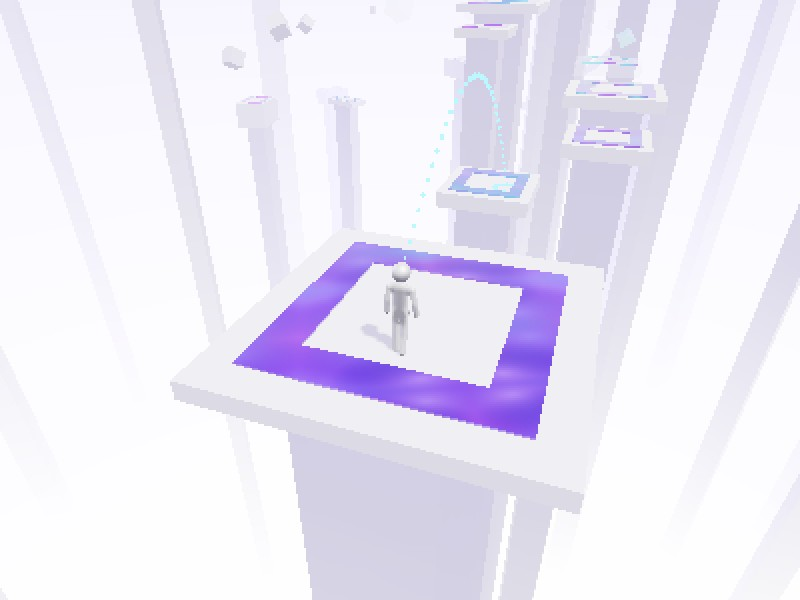
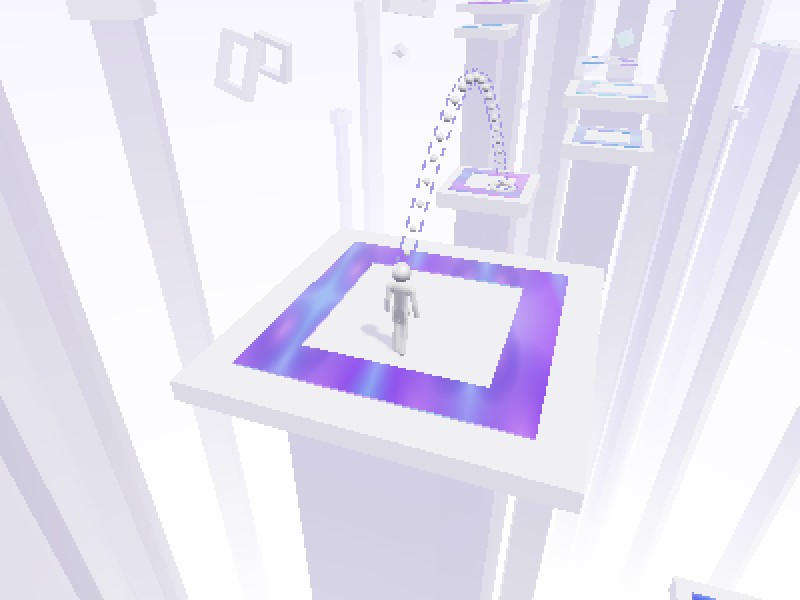
Implemented the following changes:
* There's an initial demo animation where, without user intervention, with a single user. The player will move themselves across the screen. At the moment the selection logic that the user uses doesn't have a traced outline of the character. Maybe it's using a different logic path? Add the trace and see if you can consolidate.
* When using 1/2 there's a trace consisting of solid blue/purple spheres that appear to have no lighting and a ring of the same color. Please cahnge them to be the same color as the player and to have lightning. And use the outline shader in such a way that the lines are dashed... This may be hard. I'll love you if you can pull it off.
* Right now, when you have copeis and the user uses 1/2 all clonse go to one position. Let's add a shift option when shift is pressed that works as folows One player central enough to the swarm is selected as the leader. The angle and displacement is configured  based on tha tusers. All other characters just copy the angle and displacement. The result being that all characers don't just fold onto one spot.

Co-authored by Cluade

diff --git a/public/games/aero/index.html b/public/games/aero/index.html
@@ -533,26 +533,51 @@ function aimTracker() {
   };
 }
 const aimRay = (cam, p) => { const r = new THREE.Raycaster(); r.setFromCamera(new THREE.Vector2(p.x / frame.clientWidth * 2 - 1, 1 - p.y / frame.clientHeight * 2), cam); return r.ray; };
-const AIM_OK = new THREE.Color(0x7ff0ff), AIM_NO = new THREE.Color(0xff6b9a), AIM_DOTS = 34;
+const AIM_LINE = new THREE.Color(0x5d55c9), AIM_LINE_NO = new THREE.Color(0xe8437a), AIM_DOTS = 22, AIM_R = .12, AIM_W = .06;
+function dashLine() {
+  return new THREE.ShaderMaterial({ side: THREE.BackSide, transparent: true, uniforms: { col: { value: AIM_LINE.clone() }, len: { value: 1 }, t: { value: 0 } },
+    vertexShader: 'varying float vU; void main() { vU = uv.x; gl_Position = projectionMatrix * modelViewMatrix * vec4(position, 1.); }',
+    fragmentShader: 'uniform vec3 col; uniform float len, t; varying float vU; void main() { if (fract(vU * len / .42 - t) > .56) discard; gl_FragColor = linearToOutputTexel(vec4(col, 1.)); }' });
+}
+const AIM_DEPTH = new THREE.MeshBasicMaterial({ colorWrite: false, transparent: true });
 function aimGuide() {
   const g = new THREE.Group(); g.visible = false;
-  const dm = new THREE.MeshBasicMaterial({ color: AIM_OK, toneMapped: false, transparent: true, opacity: .95, depthWrite: false });
-  const dots = new THREE.InstancedMesh(new THREE.SphereGeometry(.07, 8, 6), dm, AIM_DOTS); dots.frustumCulled = false; dots.renderOrder = 6; g.add(dots);
-  const mm = new THREE.MeshBasicMaterial({ color: AIM_OK, toneMapped: false, transparent: true, opacity: .95, side: THREE.DoubleSide, depthWrite: false });
-  const mark = new THREE.Mesh(new THREE.RingGeometry(.26, .4, 28), mm); mark.rotation.x = -Math.PI / 2; mark.renderOrder = 6; g.add(mark);
+  const bead = silver(false); bead.transparent = true;
+  const dots = new THREE.InstancedMesh(new THREE.SphereGeometry(AIM_R * .92, 12, 8), bead, AIM_DOTS);
+  dots.frustumCulled = false; dots.renderOrder = 20; g.add(dots);
+  const pathDepth = new THREE.Mesh(new THREE.BufferGeometry(), AIM_DEPTH), pathLine = new THREE.Mesh(new THREE.BufferGeometry(), dashLine());
+  pathDepth.renderOrder = 21; pathLine.renderOrder = 22; pathDepth.frustumCulled = pathLine.frustumCulled = false; g.add(pathDepth, pathLine);
+  const ringR = .34, ringT = .06;
+  const ring = new THREE.Mesh(new THREE.TorusGeometry(ringR, ringT, 10, 40), silver(false)); ring.material.transparent = true; ring.renderOrder = 20;
+  const ringDepth = new THREE.Mesh(ring.geometry, AIM_DEPTH); ringDepth.renderOrder = 21;
+  const ringLine = new THREE.Mesh(new THREE.TorusGeometry(ringR, ringT + AIM_W, 10, 40), dashLine()); ringLine.renderOrder = 22;
+  ringLine.material.uniforms.len.value = Math.PI * 2 * ringR;
+  const mark = new THREE.Group(); mark.add(ring, ringDepth, ringLine); mark.rotation.x = -Math.PI / 2; g.add(mark);
   const M = new THREE.Matrix4(), P = new THREE.Vector3(), Q = new THREE.Quaternion(), S = new THREE.Vector3();
+  const OK_TINT = new THREE.Color(0xe6e6ec), NO_TINT = new THREE.Color(0xffb8cc);
   return { g,
     show(path, end, ok, t) {
-      g.visible = true; dm.color.copy(ok ? AIM_OK : AIM_NO); mm.color.copy(dm.color);
+      g.visible = true;
+      const line = ok ? AIM_LINE : AIM_LINE_NO, tint = ok ? OK_TINT : NO_TINT;
+      bead.color.copy(tint); ring.material.color.copy(tint);
+      [pathLine, ringLine].forEach(m => { m.material.uniforms.col.value.copy(line); m.material.uniforms.t.value = t * 1.6; });
       const L = [0]; for (let i = 1; i < path.length; i++) L.push(L[i - 1] + path[i].distanceTo(path[i - 1]));
-      const total = L[L.length - 1] || 1, shift = (t * .9) % 1; let j = 1;
+      const total = L[L.length - 1] || 0, shift = (t * .9) % 1; let j = 1;
       for (let i = 0; i < AIM_DOTS; i++) {
         const s = (i + shift) / AIM_DOTS * total; j = 1; while (j < path.length - 1 && L[j] < s) j++;
         const k = (s - L[j - 1]) / ((L[j] - L[j - 1]) || 1); P.lerpVectors(path[j - 1], path[j], Math.min(1, Math.max(0, k)));
-        S.setScalar(.55 + .45 * (1 - Math.abs(s / total - .5) * 2)); M.compose(P, Q, S); dots.setMatrixAt(i, M);
+        S.setScalar(.6 + .4 * (1 - Math.abs(s / (total || 1) - .5) * 2)); M.compose(P, Q, S); dots.setMatrixAt(i, M);
       }
       dots.instanceMatrix.needsUpdate = true;
-      mark.position.set(end.x, end.y + .03, end.z); mark.scale.setScalar(1 + Math.sin(t * 7) * .12);
+      pathDepth.geometry.dispose(); pathLine.geometry.dispose();
+      const pts = path.filter((p, i) => i === 0 || p.distanceToSquared(path[i - 1]) > 1e-4);
+      if (pts.length > 1 && total > .05) {
+        const curve = new THREE.CatmullRomCurve3(pts), seg = Math.min(96, Math.max(12, Math.round(total * 5)));
+        pathDepth.geometry = new THREE.TubeGeometry(curve, seg, AIM_R, 8, false);
+        pathLine.geometry = new THREE.TubeGeometry(curve, seg, AIM_R + AIM_W, 8, false);
+        pathLine.material.uniforms.len.value = total;
+      } else { pathDepth.geometry = new THREE.BufferGeometry(); pathLine.geometry = new THREE.BufferGeometry(); }
+      mark.position.set(end.x, end.y + ringT + .01, end.z); mark.rotation.z = t * .6; mark.scale.setScalar(1 + Math.sin(t * 7) * .08);
     },
     hide() { g.visible = false; } };
 }
@@ -644,7 +669,7 @@ function headTravel(R, o) {
     }
   };
 }
-function walker(R, clamp, cam) {
+function walker(R, clamp, cam, group) {
   const vel = new THREE.Vector3(); let facing = R.root.rotation.y, base = null, h = 0, vy = 0, held = false, prev1 = false, prev2 = false, aiming = null;
   const track = aimTracker();
   const pick = p => {
@@ -658,20 +683,29 @@ function walker(R, clamp, cam) {
     land: at => { R.root.position.set(at.x, base, at.z); },
     respawn: () => new THREE.Vector3(R.root.position.x, base, R.root.position.z),
   });
+  let formation = false;
+  const leader = () => { if (!group || !formation) return null; const L = group(); return L && L !== R && L.walk ? L : null; };
+  const resolve = raw => {
+    const L = leader(); if (!L) return { dest: raw, f: null };
+    if (!raw) return { dest: null, f: L.walk.facing() };
+    const q = R.root.position.clone().add(raw.clone().sub(L.root.position)); clamp(q); q.y = base; return { dest: q, f: null };
+  };
   const step = (dt, t) => {
     if (base === null) base = R.root.position.y;
-    if (!aiming && !travel.active()) { if (KEYS.roll && !prev1) aiming = 'roll'; else if (KEYS.throw && !prev2) aiming = 'throw'; if (aiming) track.reset(); }
+    if (!aiming && !travel.active()) { if (KEYS.roll && !prev1) aiming = 'roll'; else if (KEYS.throw && !prev2) aiming = 'throw'; if (aiming) { track.reset(); formation = false; } }
     prev1 = !!KEYS.roll; prev2 = !!KEYS.throw;
-    if (aiming) track.tick();
+    if (aiming) { track.tick(); if (KEYS.run) formation = true; }
     if (aiming && h === 0 && (AIM.up || (!KEYS[aiming] && !AIM.down))) {
-      const k = aiming, dest = AIM.up ? pick(AIM.up) : track.mouse ? pick(AIM) : null; aiming = null; travel.unaim();
+      const k = aiming, { dest, f } = resolve(AIM.up ? pick(AIM.up) : track.mouse ? pick(AIM) : null); aiming = null; travel.unaim();
+      if (f !== null) facing = f;
       if (dest) { facing = Math.atan2(dest.x - R.root.position.x, dest.z - R.root.position.z); R.root.rotation.y = facing; }
       travel.start(k, facing, dest);
     }
     if (travel.active()) { travel.update(dt); vel.set(0, 0, 0); return; }
     const ix = (KEYS.r ? 1 : 0) - (KEYS.l ? 1 : 0), iz = (KEYS.b ? 1 : 0) - (KEYS.f ? 1 : 0), sp = KEYS.run ? 6.2 : 3.4;
     const w = new THREE.Vector3(ix, 0, iz); if (w.lengthSq()) { w.normalize(); facing = Math.atan2(w.x, w.z); }
-    const aimAt = aiming && track.mouse ? pick(AIM) : null;
+    const aimed = aiming ? resolve(track.mouse ? pick(AIM) : null) : { dest: null, f: null }, aimAt = aimed.dest;
+    if (aimed.f !== null) facing = aimed.f;
     if (aimAt && !w.lengthSq()) facing = Math.atan2(aimAt.x - R.root.position.x, aimAt.z - R.root.position.z);
     vel.x += (w.x * sp - vel.x) * Math.min(1, dt * 10); vel.z += (w.z * sp - vel.z) * Math.min(1, dt * 10);
     const p = R.root.position; p.x += vel.x * dt; p.z += vel.z * dt; clamp(p);
@@ -686,6 +720,7 @@ function walker(R, clamp, cam) {
   step.travelling = () => travel.active();
   step.focus = () => travel.active() ? R.head.getWorldPosition(new THREE.Vector3()).add(new THREE.Vector3(0, 1.3 - R.headY, 0)) : R.root.position.clone().add(new THREE.Vector3(0, 1.3 - h, 0));
   step.cancel = () => { aiming = null; travel.unaim(); };
+  step.facing = () => facing;
   return step;
 }
 
@@ -738,10 +773,16 @@ function buildCopy() {
   const mq = $('#marquee'), ctx = $('#ctx'), ov = $('#copyOv'), login = $('#begin');
   const A = -1.6, B = 1.9, LOOP = 8.6;
   let demoT0 = 0;
+  const swarmLead = () => {
+    if (crew.length < 2) return null;
+    const c = crew.reduce((a, r) => a.add(r.root.position), V(0, 0, 0)).multiplyScalar(1 / crew.length);
+    let best = null, bd = Infinity; for (const r of crew) { const d = r.root.position.distanceToSquared(c); if (d < bd) { bd = d; best = r; } }
+    return best;
+  };
   const syncLogin = () => { login.style.display = crew.length ? 'none' : ''; };
   function spawn() {
     if (crew.length) return;
-    const r = makeRunner(); r.root.position.set(A, 0, 0); r.root.rotation.y = .2; r.walk = walker(r, clampP, cam); r.flick = now + .5;
+    const r = makeRunner(); r.root.position.set(A, 0, 0); r.root.rotation.y = .2; r.walk = walker(r, clampP, cam, swarmLead); r.flick = now + .5;
     scene.add(r.root); crew.push(r); lead = r; mode = 'demo'; demoT0 = now; S = null; syncLogin(); chime(660);
   }
   login.onclick = () => { if (active) spawn(); };
@@ -754,7 +795,7 @@ function buildCopy() {
 
   const hand = new THREE.Vector3(); let S = null, dragging = false;
   function demo(dt, t) {
-    const R = lead, u = (t - demoT0) % LOOP, b0 = box(A), dx = box(B).x - b0.x;
+    const R = lead, u = (t - demoT0) % LOOP, b0 = box(A);
     R.root.position.set(u >= 4.7 ? B : A, 0, 0); R.root.rotation.y = .2;
     animateRunner(R, dt, 0, true, t);
     let arm = null, crouch = 0;
@@ -766,19 +807,31 @@ function buildCopy() {
     R.root.updateMatrixWorld(true);
     const hp = toFrame(R.handL.getWorldPosition(hand), cam);
     if (u < .5) S = null;
-    let on = false, x0, y0, x1, y1, ox = 0;
-    if (u >= 1.3 && u < 2.8) { if (!dragging || !S) S = { x: Math.min(hp.x, b0.x), y: Math.min(hp.y, b0.y) }; dragging = true; const k = ease((u - 1.3) / 1.5) ** 2;
-      on = true; x0 = S.x; y0 = S.y; x1 = hp.x + (b0.x + b0.w - hp.x) * k; y1 = hp.y + (b0.y + b0.h - hp.y) * k; }
-    else { dragging = false; if (u >= 2.8 && u < 5.1) { on = true; if (!S) S = { x: b0.x, y: b0.y }; x0 = S.x; y0 = S.y; x1 = b0.x + b0.w; y1 = b0.y + b0.h; } }
-    let vis = true;
+    if (u >= 1.3 && u < 2.8) {
+      if (!dragging || !S) S = { x: Math.min(hp.x, b0.x), y: Math.min(hp.y, b0.y) }; dragging = true; const k = ease((u - 1.3) / 1.5) ** 2;
+      rect(S.x, S.y, hp.x + (b0.x + b0.w - hp.x) * k, hp.y + (b0.y + b0.h - hp.y) * k); demoMargin = null;
+    } else if (u >= 2.8 && u < 5.1) {
+      if (dragging || !demoMargin) {
+        const r = { x0: S ? S.x : b0.x, y0: S ? S.y : b0.y, x1: b0.x + b0.w, y1: b0.y + b0.h }, b = bounds([R]), k = b.y1 - b.y0;
+        demoMargin = { l: (b.x0 - r.x0) / k, t: (b.y0 - r.y0) / k, r: (r.x1 - b.x1) / k, b: (r.y1 - b.y1) / k };
+      }
+      dragging = false;
+    } else { dragging = false; demoMargin = null; }
+    let vis = true, carried = false;
     if (u >= 3.2 && u < 3.6) vis = Math.floor(u * 16) % 2 === 0;
-    else if (u >= 3.6 && u < 4.7) { vis = false; ox = dx * ease((u - 3.6) / 1.1); }
-    else if (u >= 4.7 && u < 5.1) { ox = dx; vis = u > 4.95 || Math.floor(u * 20) % 2 === 0; }
+    else if (u >= 3.6 && u < 4.7) { vis = false; carried = true; }
+    else if (u >= 4.7 && u < 5.1) vis = u > 4.95 || Math.floor(u * 20) % 2 === 0;
     R.root.visible = vis && !(R.flick && t < R.flick && Math.floor(t * 20) % 2);
-    if (on) rect(x0 + ox, y0, x1 + ox, y1); else hideRect();
+    const g = demoGhostFor(); g.root.visible = carried;
+    if (carried) {
+      g.src = R; poseGhost(g, A + (B - A) * ease((u - 3.6) / 1.1), 0);
+      const pulse = .8 + Math.sin(t * 6) * .2; GHOST.lineSkin.color.setRGB(.9 * pulse, .92 * pulse, pulse); GHOST.line.color.copy(GHOST.lineSkin.color);
+    }
+    if (demoMargin) { const a = around(carried ? [g] : [R], demoMargin); if (a) rect(a.x0, a.y0, a.x1, a.y1); }
+    else if (!(u >= 1.3 && u < 2.8)) hideRect();
   }
   function resetPose(r) { r.hips.position.y = .98; r.spine.rotation.x = 0; r.shL.rotation.z = -.1; r.shR.rotation.z = .1; r.root.visible = true; }
-  function toPlay() { if (mode === 'play') return; mode = 'play'; if (lead) resetPose(lead); hideRect(); }
+  function toPlay() { if (mode === 'play') return; mode = 'play'; if (lead) resetPose(lead); if (demoGhost) demoGhost.root.visible = false; demoMargin = null; hideRect(); }
 
   const ray = new THREE.Raycaster(), floorPlane = new THREE.Plane(V(0, 1, 0), 0);
   const px = e => { const r = frame.getBoundingClientRect(); return { x: (e.clientX - r.left) * frame.clientWidth / r.width, y: (e.clientY - r.top) * frame.clientHeight / r.height }; };
@@ -792,8 +845,8 @@ function buildCopy() {
         const f = toFrame(V(p.x + dx, p.y + y, p.z + dz), cam); x0 = Math.min(x0, f.x); y0 = Math.min(y0, f.y); x1 = Math.max(x1, f.x); y1 = Math.max(y1, f.y); } }
     return x0 < Infinity ? { x0, y0, x1, y1 } : null;
   };
-  const around = rs => { const b = bounds(rs); if (!b || !margin) return null; const k = b.y1 - b.y0;
-    return { x0: b.x0 - margin.l * k, y0: b.y0 - margin.t * k, x1: b.x1 + margin.r * k, y1: b.y1 + margin.b * k }; };
+  const around = (rs, m = margin) => { const b = bounds(rs); if (!b || !m) return null; const k = b.y1 - b.y0;
+    return { x0: b.x0 - m.l * k, y0: b.y0 - m.t * k, x1: b.x1 + m.r * k, y1: b.y1 + m.b * k }; };
   let ghosts = [];
   function dropGhosts() { ghosts.forEach(g => scene.remove(g.root)); ghosts = []; }
   function clearSel() { sel.forEach(r => { if (r.hideAfter) { r.hideAfter = false; r.root.visible = true; } }); sel = []; selRect = null; carry = null; margin = null; dropGhosts(); ctx.classList.remove('on'); hideRect(); }
@@ -801,15 +854,18 @@ function buildCopy() {
     const m = margin || { l: 0, t: 0, r: 0, b: 0 }, k = carry.h / (1 + m.t + m.b);
     const to = floorAt({ x: p.x - (m.r - m.l) * k / 2, y: p.y + carry.h / 2 - m.b * k - k * .03 });
     return to && carry.from ? { dx: to.x - carry.from.x, dz: to.z - carry.from.z } : null; };
+  function poseGhost(g, x, z) {
+    const s = g.src.root; g.root.position.set(x, s.position.y, z); clampP(g.root.position); g.root.rotation.y = s.rotation.y;
+    POSE_KEYS.forEach(k => { g[k].rotation.copy(g.src[k].rotation); if (k === 'hips' || k === 'body') g[k].position.copy(g.src[k].position); });
+    g.head.position.copy(g.src.head.position);
+  }
   function placeGhosts() {
     const d = mouse && landing(mouse); if (d) carry.last = d;
     const D = carry.last || { dx: 0, dz: 0 };
-    ghosts.forEach(g => {
-      const s = g.src.root; g.root.position.set(s.position.x + D.dx, s.position.y, s.position.z + D.dz); clampP(g.root.position); g.root.rotation.y = s.rotation.y;
-      POSE_KEYS.forEach(k => { g[k].rotation.copy(g.src[k].rotation); if (k === 'hips' || k === 'body') g[k].position.copy(g.src[k].position); });
-      g.head.position.copy(g.src.head.position); g.root.visible = true;
-    });
+    ghosts.forEach(g => { poseGhost(g, g.src.root.position.x + D.dx, g.src.root.position.z + D.dz); g.root.visible = true; });
   }
+  let demoGhost = null, demoMargin = null;
+  const demoGhostFor = () => { if (!demoGhost) { demoGhost = makeGhost(); demoGhost.root.visible = false; scene.add(demoGhost.root); } return demoGhost; };
   function openMenu() {
     ctx.classList.add('on'); placeMenu();
   }
@@ -835,7 +891,7 @@ function buildCopy() {
     if (carry.kind === 'copy') {
       ghosts.forEach(g => {
         const r = makeRunner(); r.root.position.set(g.root.position.x, 0, g.root.position.z);
-        r.root.rotation.y = g.root.rotation.y; r.walk = walker(r, clampP, cam); r.seed = Math.random() * 10; r.flick = now + .3; scene.add(r.root); crew.push(r);
+        r.root.rotation.y = g.root.rotation.y; r.walk = walker(r, clampP, cam, swarmLead); r.seed = Math.random() * 10; r.flick = now + .3; scene.add(r.root); crew.push(r);
       });
     } else ghosts.forEach(g => { const r = g.src; r.root.position.x = g.root.position.x; r.root.position.z = g.root.position.z; r.hideAfter = false; r.flick = now + .3; });
     chime(784); sel = []; clearSel();
@@ -1508,7 +1564,7 @@ function buildClimb() {
 
 const PLAY_NOTE = 'WASD moves, Space jumps. Tap 1 to roll your head or 2 to throw it. Hold 1 / 2 and move the mouse to aim, then release or click to send it. Drag to look. Find 4 memories, then roll your head into the pipe.';
 const SCENES = [
-  { id: 'copy',    name: 'Copy',          note: 'Log in to spawn him. Drag a box around him and pick Copy, Cut or Delete; click to paste. WASD walks everyone, Space jumps. Tap 1 / 2 to roll or throw heads; hold 1 / 2 and move the mouse to aim.', ov: 'copyOv', build: buildCopy, walk: true },
+  { id: 'copy',    name: 'Copy',          note: 'Log in to spawn him. Drag a box around him and pick Copy, Cut or Delete; click to paste. WASD walks everyone, Space jumps. Tap 1 / 2 to roll or throw heads; hold 1 / 2 and move the mouse to aim, add Shift to keep the crew in formation.', ov: 'copyOv', build: buildCopy, walk: true },
   { id: 'title',   name: 'Title',         note: 'Hover the sea to stir it; click to drop a ripple.', ov: 'titleOv', build: buildTitle },
   { id: 'arrive',  name: 'Arrival',       note: 'WASD walks, Shift runs, Space jumps. Tap 1 to roll your head or 2 to throw it. Hold 1 / 2 and move the mouse to aim, then release or click to send it.', ov: null, build: buildArrival, walk: true },
   { id: 'open',    name: 'Cold open',     note: 'Text cards. Click or Enter skips, Esc goes to the game.', ov: 'cards', lines: ['Did anyone ever log out?', 'Or did we just stop coming back?'] },

diff --git a/README.md b/README.md
@@ -11,7 +11,7 @@ The bar under the game steps through each scene. You can also jump straight to o
 | | |
 |---|---|
 | ![Copy, before logging in](docs/copy_login.jpg) | ![Copying the crew](docs/copy_crew.jpg) |
-| **1. Copy.** The room starts empty; Log in spawns the runner. Drag a box around him and pick Copy, Cut or Delete. The dashed box follows the selection as it moves and resizes with depth. | Copies walk together. While you carry a copy, grey ghosts preview where it will land. Delete everyone and Log in comes back. |
+| **1. Copy.** The room starts empty; Log in spawns the runner. Drag a box around him and pick Copy, Cut or Delete. The dashed box follows the selection as it moves and resizes with depth. | Copies walk together. While you carry a copy, grey ghosts preview where it will land. Delete everyone and Log in comes back. Hold Shift while aiming heads and the crew keeps its formation. |
 | ![Title](docs/title.jpg) | ![A drop leaving the sea](docs/title_drop.jpg) |
 | **2. Title.** Hover to stir the sea of digits. | Click to drop a ripple. The centre sinks, rebounds into a peak, and throws off a blob of digits. The blob falls back in and sends out one smaller ripple. |
 | ![Arrival, sunset and daffodil](docs/arrival_1.jpg) | ![Arrival, hands and penguin](docs/arrival_2.jpg) |
@@ -25,7 +25,7 @@ The bar under the game steps through each scene. You can also jump straight to o
 | ![Memory player](docs/memory_player.jpg) | ![The climb](docs/climb.jpg) |
 | **8. Memory player.** A draggable media player window over the level. | **10. The climb.** Pillars fading into white, four memories to collect, and a pipe home. |
 | ![Aiming a head throw](docs/climb_aim.jpg) | ![Rolling into the pipe](docs/climb_pipe_in.jpg) |
-| Tap **2** to throw your head to the next platform. Hold 2 and move the mouse to aim at a spot, then release the key or click; a pink path means the head would fall. | The pipe lies on the top plaza. Once all four memories are found, roll your head into it with **1**. |
+| Tap **2** to throw your head to the next platform. Hold 2 and move the mouse to aim at a spot, then release the key or click. The path shows as silver beads inside a dashed outline; a pink outline means the head would fall. | The pipe lies on the top plaza. Once all four memories are found, roll your head into it with **1**. |
 
 ## Controls
 
@@ -37,6 +37,7 @@ The bar under the game steps through each scene. You can also jump straight to o
 | 2 | Throw your head to the next platform |
 | Hold 1 / 2 + move the mouse | Aim at the spot under the cursor; release the key (or click) to send the head there |
 | Hold 1 / 2 + WASD | Go back to aiming along your facing |
+| Hold 1 / 2 + Shift (Copy scene) | Formation: the runner nearest the middle of the crew aims, and everyone else copies its direction and distance |
 | Drag (Copy scene) | Select, then Copy / Cut / Delete and click to paste. Cmd/Ctrl+C, Cmd/Ctrl+X and Delete also work. |
 | Drag (Climb) | Look around |
 
